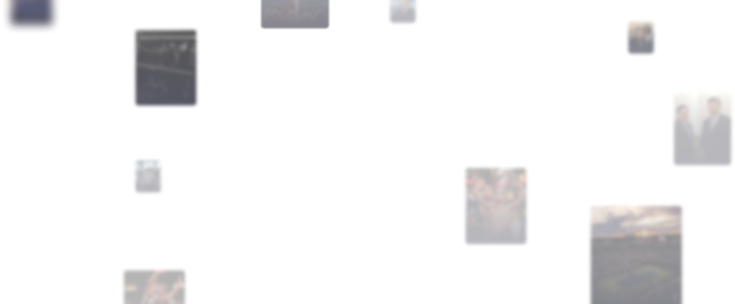
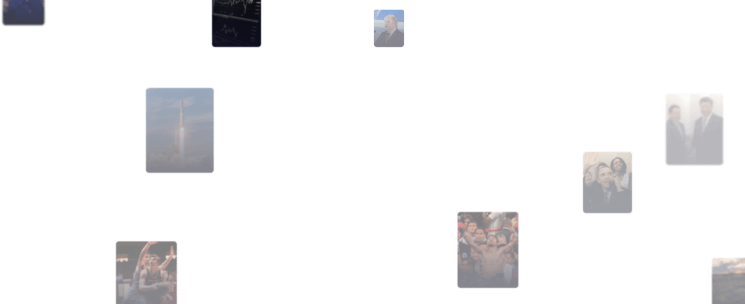
Replaced the image and adjusted a little bit (#7795)

diff --git a/packages/augur-ui/src/modules/markets-list/components/landing-hero.styles.less b/packages/augur-ui/src/modules/markets-list/components/landing-hero.styles.less
@@ -8,7 +8,7 @@
   border-radius: @border-radius-default;
   height: 304px;
   background-image: url('../../../assets/images/hero-background.png');
-  background-position: 85% center;
+  background-position: 100% center;
   background-size: contain;
   background-repeat: no-repeat;
 
@@ -28,8 +28,8 @@
     flex-direction: column;
     justify-content: center;
     flex: 1;
-    max-width: 340px;
-    margin: @size-40 0 @size-48 @size-48;
+    max-width: 480px;
+    margin: @size-40 @size-16 @size-48 @size-48;
 
     > h1 {
       .text-30-bold;
@@ -60,7 +60,7 @@
     grid-gap: 54px;
     grid-template-columns: 1fr 1fr;
     margin-left: auto;
-    margin-right: 14%;
+    margin-right: 11%;
 
     > img:first-of-type {
       max-width: 152px;
@@ -80,10 +80,11 @@
   }
 
   @media @breakpoint-mobile-tablet {
-    background-size: cover;
+    background-position: 120% center;
 
     > div:first-of-type {
       z-index: 1;
+      max-width: 340px;
     }
 
     > div:last-of-type {
